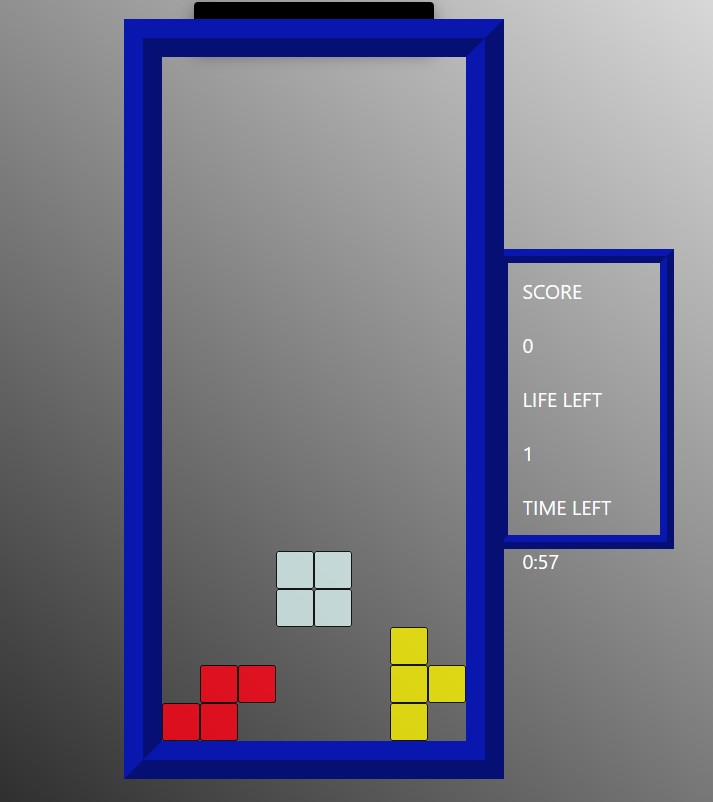
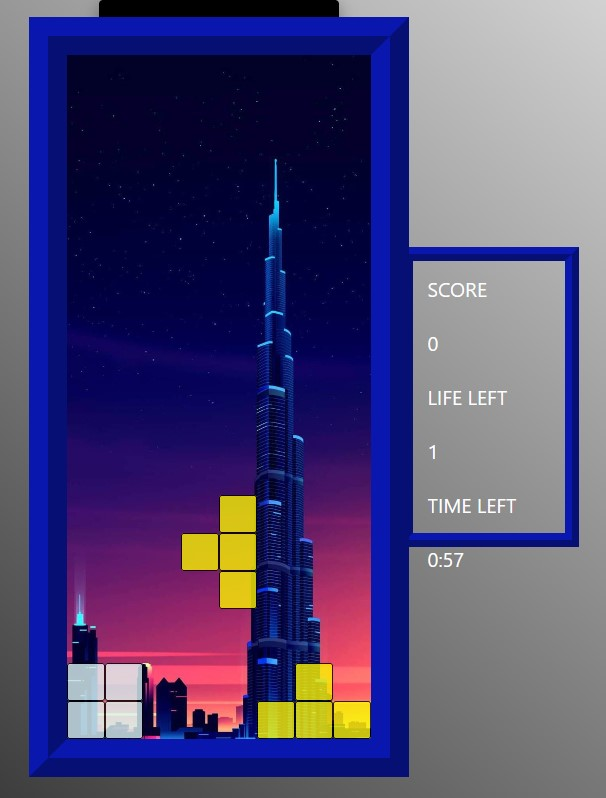
visual adjustments, fixed a tetris visual

diff --git a/frontend/src/items/Games/Games.module.css b/frontend/src/items/Games/Games.module.css
@@ -50,7 +50,7 @@
   color: white;
   cursor: pointer;
   background-color: black;
-  margin: 0.1rem;
+  margin: 1rem;
   border-radius: 4px;
   width: 15rem;
   height: 3rem;
@@ -58,6 +58,9 @@
   font-size: inherit;
   box-shadow: rgba(0, 0, 0, 0.35) 0px 5px 15px;
   transition: 1s;
+  position: absolute;
+  right: 1rem;
+  bottom: 1rem;
 }
 
 .back:hover{

diff --git a/frontend/src/items/Games/GamePool/Tetris2/make-your-game.js b/frontend/src/items/Games/GamePool/Tetris2/make-your-game.js
@@ -8,7 +8,6 @@ export const initTetris2 = () => {
   frame.style.width = '380px';
   frame.style.height = '760px';
   frame.style.border = '38px ridge rgb(9, 23, 174)';
-  frame.style.background = 'url(./db2.jpg)';
 
   let score = 0;
   let life = 1;

diff --git a/frontend/src/items/Games/GamePool/Tetris2/tetris.css b/frontend/src/items/Games/GamePool/Tetris2/tetris.css
@@ -57,6 +57,7 @@
 
 .frame {
   z-index: 2;
+  background-image: url("./db2.jpg");
 }
 
 .parent {
